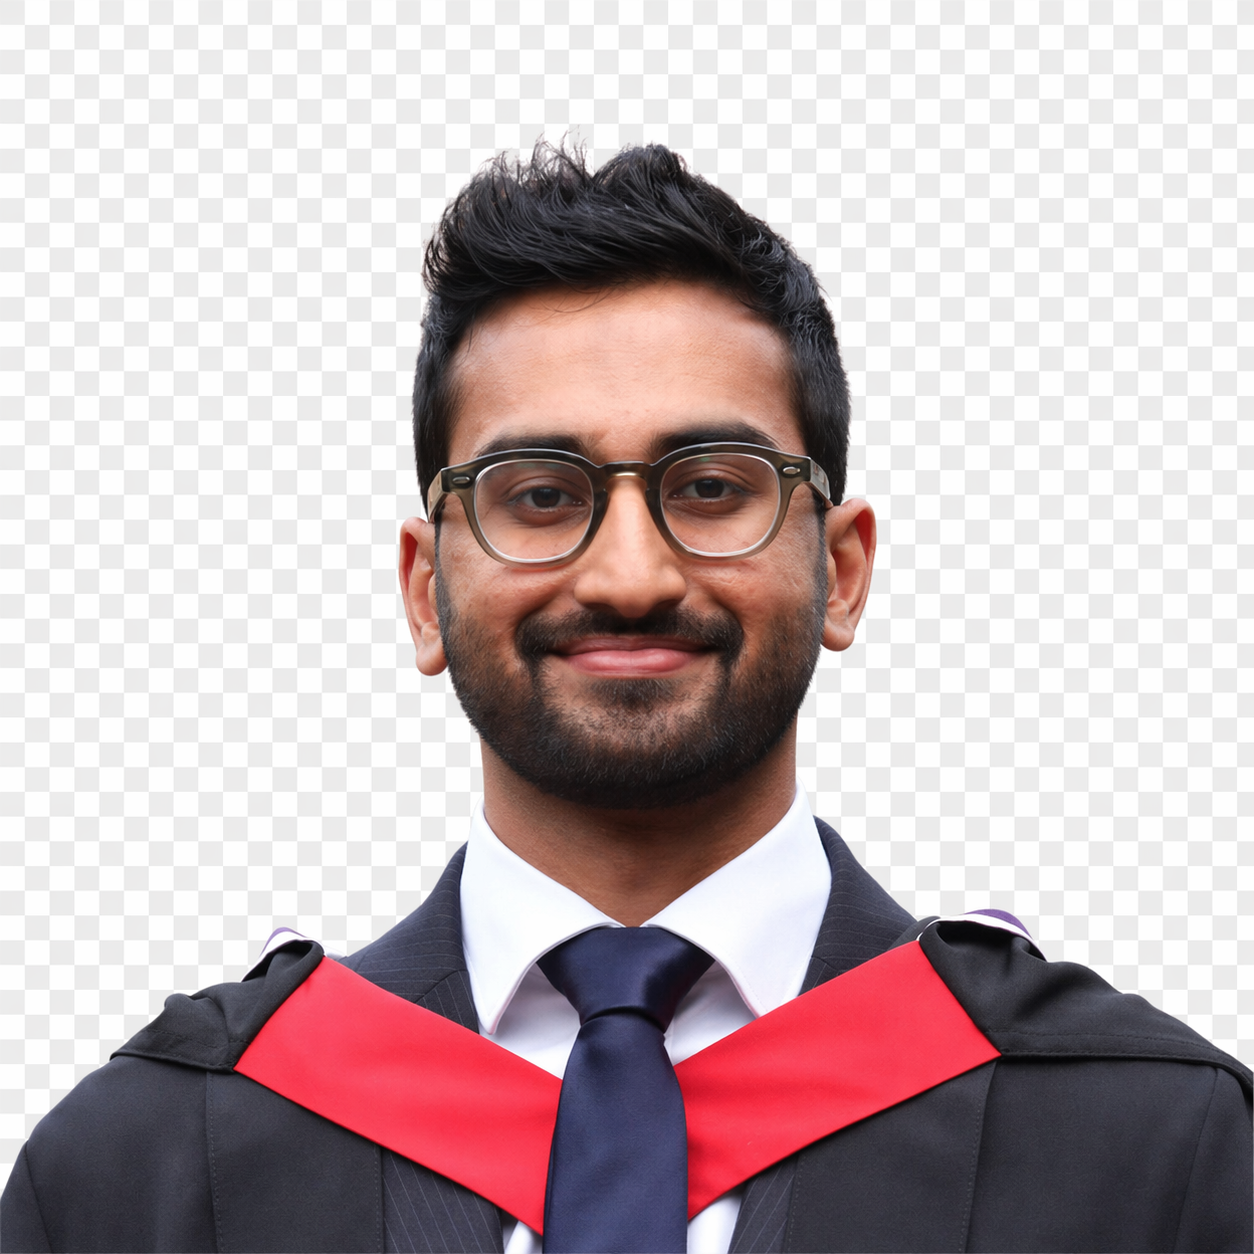
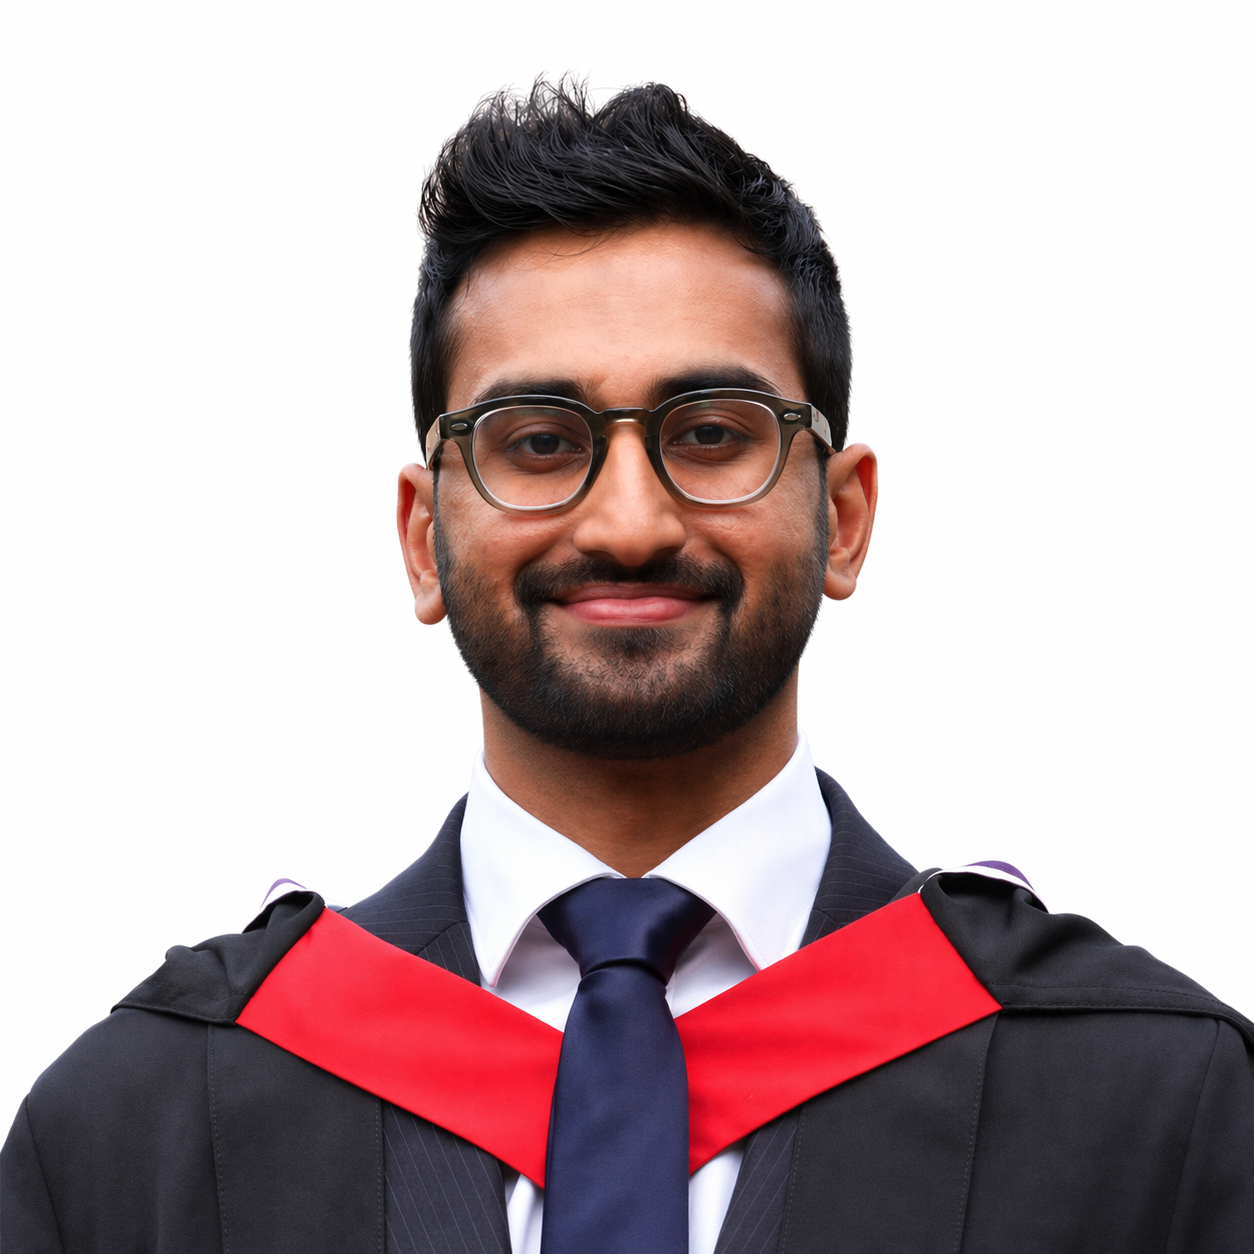
abou tus page

Changed region(s): [[0.0, 0.0622, 1.0, 1.0]]

diff --git a/client/src/pages/About.tsx b/client/src/pages/About.tsx
@@ -42,12 +42,16 @@ export default function About() {
                   role: "Doctor - Clinical & Regulatory Strategy Lead in MedTech",
                   bio: "She brings hands-on experience leading clinical research and regulatory strategy across global healthcare startups.",
                   photo: "/team/yuri.png",
+                  borderClass: "border-journi-green",
+                  roleClass: "text-journi-green",
                 },
                 {
                   name: "Dr Rishabh Hariharan",
                   role: "Doctor - Researcher - Startup Operator",
                   bio: "He combines a strong clinical research background with early-stage venture building to ship products.",
                   photo: "/team/rish.png",
+                  borderClass: "border-[color:var(--color-journi-purple)]",
+                  roleClass: "text-[color:var(--color-journi-purple)]",
                 },
               ].map((person, i) => (
                 <motion.div
@@ -59,19 +63,21 @@ export default function About() {
                   custom={i + 1}
                 >
                   <div className="shrink-0">
-                    <div className="w-28 h-28 rounded-2xl overflow-hidden bg-gradient-to-b from-background to-muted/70 border border-border/60 flex items-end justify-center">
+                    <div
+                      className={`w-28 h-28 rounded-full overflow-hidden bg-white border-4 ${person.borderClass} flex items-center justify-center shadow-sm`}
+                    >
                       <img
                         src={person.photo}
                         alt={person.name}
                         width={112}
                         height={112}
-                        className="w-full h-full object-contain object-top"
+                        className="w-full h-full object-cover object-top"
                       />
                     </div>
                   </div>
                   <div className="min-w-0">
                     <h2 className="text-lg font-bold text-foreground">{person.name}</h2>
-                    <p className="text-xs font-semibold text-journi-green mt-0.5 mb-3">{person.role}</p>
+                    <p className={`text-xs font-semibold mt-0.5 mb-3 ${person.roleClass}`}>{person.role}</p>
                     <p className="text-sm text-muted-foreground leading-relaxed">{person.bio}</p>
                   </div>
                 </motion.div>

diff --git a/client/src/pages/Features.tsx b/client/src/pages/Features.tsx
@@ -358,11 +358,11 @@ export default function Features() {
             >
               {/* Column headers */}
               <div className="grid grid-cols-2 divide-x divide-border">
-                <div className="px-6 py-4 bg-red-50 dark:bg-red-950/30 flex items-center gap-2">
+                <div className="min-w-0 px-4 py-4 sm:px-6 bg-red-50 dark:bg-red-950/30 flex items-center gap-2">
                   <span aria-hidden="true" className="text-base">❌</span>
                   <span className="text-sm font-bold text-red-700 dark:text-red-400">Without Journie</span>
                 </div>
-                <div className="px-6 py-4 bg-journi-green/10 flex items-center gap-2">
+                <div className="min-w-0 px-4 py-4 sm:px-6 bg-journi-green/10 flex items-center gap-2">
                   <CheckCircle2 size={16} className="text-journi-green shrink-0" aria-hidden="true" />
                   <span className="text-sm font-bold text-journi-green">With Journie</span>
                 </div>
@@ -374,10 +374,10 @@ export default function Features() {
                   key={i}
                   className={`grid grid-cols-2 divide-x divide-border border-t border-border ${i % 2 === 1 ? "bg-muted/20" : "bg-background"}`}
                 >
-                  <div className="px-6 py-4 text-sm text-muted-foreground leading-relaxed">
+                  <div className="min-w-0 px-4 py-4 sm:px-6 text-xs sm:text-sm text-muted-foreground leading-relaxed break-words [overflow-wrap:anywhere]">
                     {row.without}
                   </div>
-                  <div className="px-6 py-4 text-sm text-foreground leading-relaxed font-medium">
+                  <div className="min-w-0 px-4 py-4 sm:px-6 text-xs sm:text-sm text-foreground leading-relaxed font-medium break-words [overflow-wrap:anywhere]">
                     {row.with}
                   </div>
                 </div>
